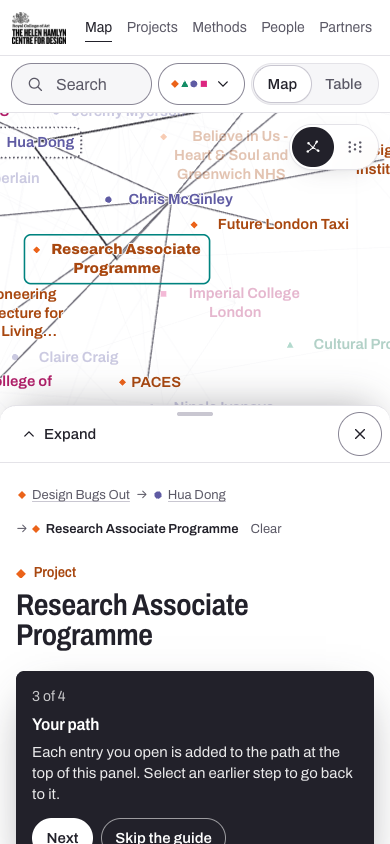
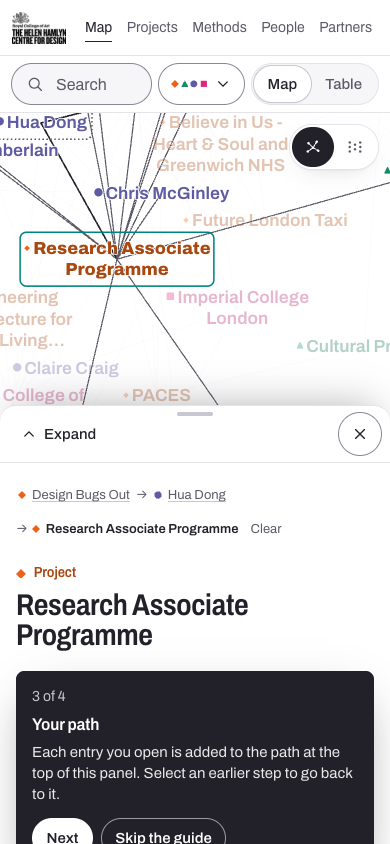
Larger constellation names; type shape set inline against the name
Claude-Session: https://claude.ai/code/session_014KayvLjfZAn1qfA8mMiKjx

diff --git a/src/components/explore/GraphView.tsx b/src/components/explore/GraphView.tsx
@@ -46,6 +46,7 @@ const ARRANGEMENT_LABEL: Record<Arrangement, string> = {
   columns: 'By type',
 };
 
+const GLYPH: Record<string, string> = { Projects: '◆', Methods: '▲', People: '●', Partners: '■' };
 const clamp01 = (v: number) => Math.max(0, Math.min(1, v));
 const labelWidth = (name: string) => shortLabel(name).length * 7.7 + 4;
 /** How much of the constellation label is showing at a given progress towards columns (they crossfade mid-move). */
@@ -515,6 +516,7 @@ export function GraphView() {
                   return `translate(${mx - r} ${my - r}) scale(${(r * 2) / 10})`;
                 })()}
                 fill={`var(--color-${meta.token})`}
+                style={{ opacity: 1 - starOp }}
               />
               {showLabel && starOp > 0 && (
                 <text
@@ -523,7 +525,13 @@ export function GraphView() {
                   style={{ opacity: starOp, fill: `var(--color-${meta.token}-text)` }}
                 >
                   {lines.map((line, i) => (
-                    <tspan key={i} x={i === 0 ? 11 : 0} y={-(lines.length * STAR_LINE) / 2 + STAR_LINE * (i + 0.74)}>
+                    <tspan key={i} x={0} y={-(lines.length * STAR_LINE) / 2 + STAR_LINE * (i + 0.74)}>
+                      {/* The type's shape is set as a glyph in the line itself, so it sits right against the name. */}
+                      {i === 0 && (
+                        <tspan className="star-glyph" style={{ fill: `var(--color-${meta.token})` }}>
+                          {GLYPH[n.type]}{'\u2009'}
+                        </tspan>
+                      )}
                       {line}
                     </tspan>
                   ))}

diff --git a/src/lib/layout.ts b/src/lib/layout.ts
@@ -34,9 +34,9 @@ export const LABEL_MAX = 34;
  * bold and in its type's colour, centred under the entry's mark and wrapped
  * onto up to three lines.
  */
-export const STAR_FONT = 19;
-export const STAR_LINE = 23;
-export const STAR_CHAR = 10.5;
+export const STAR_FONT = 22;
+export const STAR_LINE = 27;
+export const STAR_CHAR = 11.6;
 const STAR_WRAP = 18;
 const STAR_MAX_LINES = 3;
 
@@ -67,7 +67,7 @@ export function wrapLabel(name: string): string[] {
 export function starBox(name: string): { left: number; right: number; top: number; bottom: number } {
   const lines = wrapLabel(name);
   // The name is the node, centred on its point; a small type mark sits before the first line.
-  const w = Math.max(...lines.map((l, i) => l.length * STAR_CHAR + (i === 0 ? 22 : 0))) + 8;
+  const w = Math.max(...lines.map((l, i) => l.length * STAR_CHAR + (i === 0 ? 20 : 0))) + 8;
   const h = lines.length * STAR_LINE + 6;
   return { left: -w / 2, right: w / 2, top: -h / 2, bottom: h / 2 };
 }

diff --git a/src/app/globals.css b/src/app/globals.css
@@ -340,9 +340,16 @@ kbd {
   user-select: none;
   pointer-events: none;
 }
+/* The type shape before a constellation name: a little smaller than the
+   name and lifted to sit on its x-height. */
+.graph-node tspan.star-glyph {
+  font-size: 0.72em;
+  dominant-baseline: auto;
+  baseline-shift: 0.12em;
+}
 /* Constellation labels: the name in its type's colour, bold and centred, as in the original platform. */
 .graph-node text.star-label {
-  font-size: 18px;
+  font-size: 22px;
   font-weight: 640;
   letter-spacing: 0;
   text-anchor: middle;
